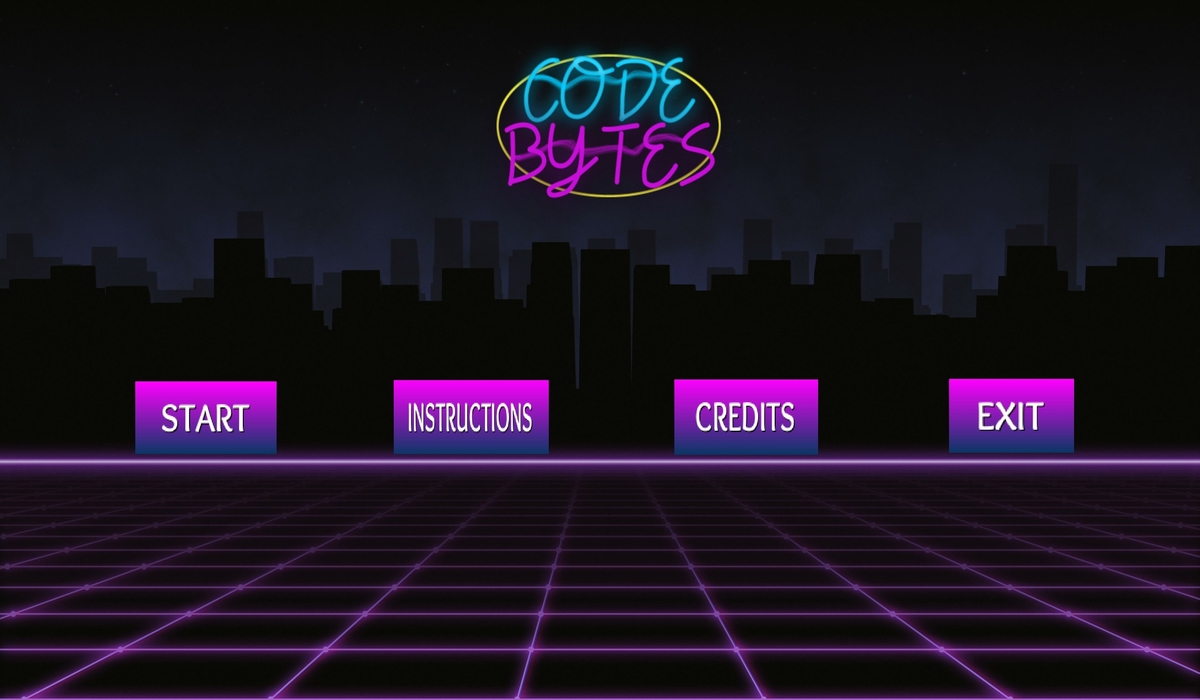
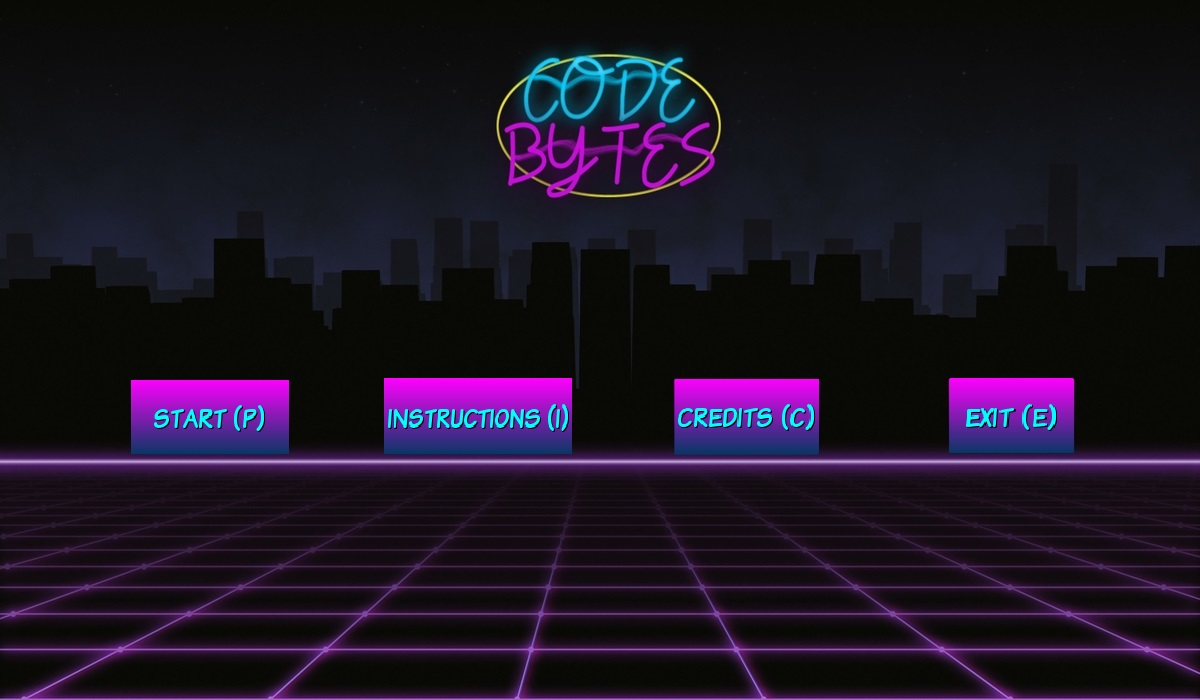
more main menu implementation

diff --git a/src/org/academiadecodigo/bootcamp/codebytes/menus/Menu.java b/src/org/academiadecodigo/bootcamp/codebytes/menus/Menu.java
@@ -37,6 +37,9 @@ public class Menu {
             Thread.sleep(7000);
             menuLoading.draw();
             menuPresentScreen.delete();
+            Thread.sleep(14500);
+            menuMain.draw();
+            menuPresentScreen.delete();
         }
 
 
@@ -58,6 +61,13 @@ public class Menu {
 
         public void instructionsDelete() {
             instructions.delete();
+        }
+
+        public void menuBack() {
+            mainMenu();
+            instructions.delete();
+            credits.delete();
+
         }
 
 

diff --git a/src/org/academiadecodigo/bootcamp/codebytes/media/Backgrounds.java b/src/org/academiadecodigo/bootcamp/codebytes/media/Backgrounds.java
@@ -1,8 +1,11 @@
 package org.academiadecodigo.bootcamp.codebytes.media;
 
 public enum Backgrounds {
-    ;
-
-    public enum GameObjectsType {
+    BACKGROUND1,
+    BACKGROUND2,
+    BACKGROUND3,
+    BACKGROUND4,
+    BACKGROUND5
     }
-}
+
+
